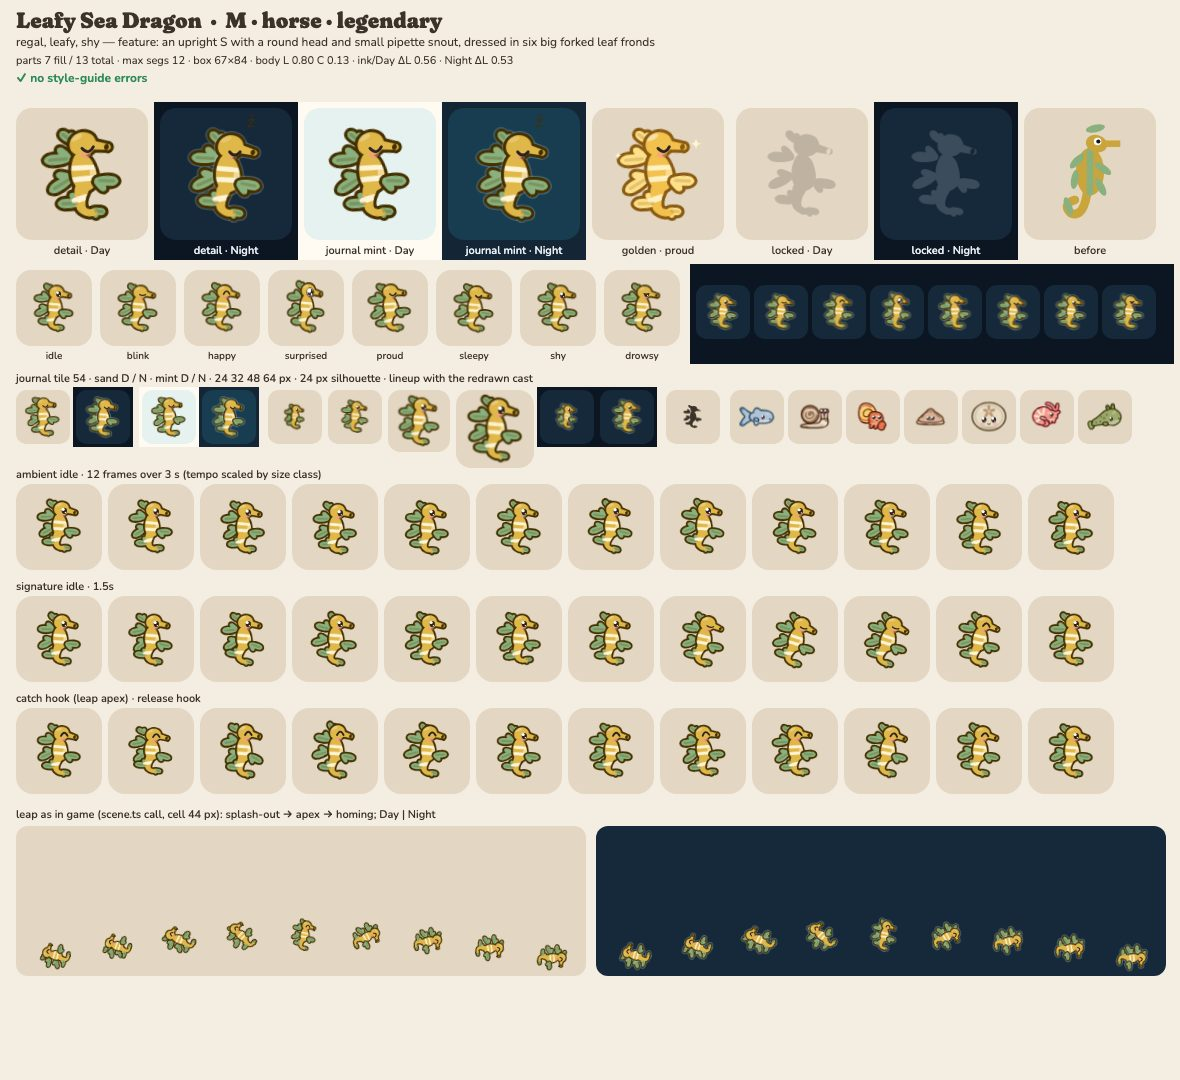
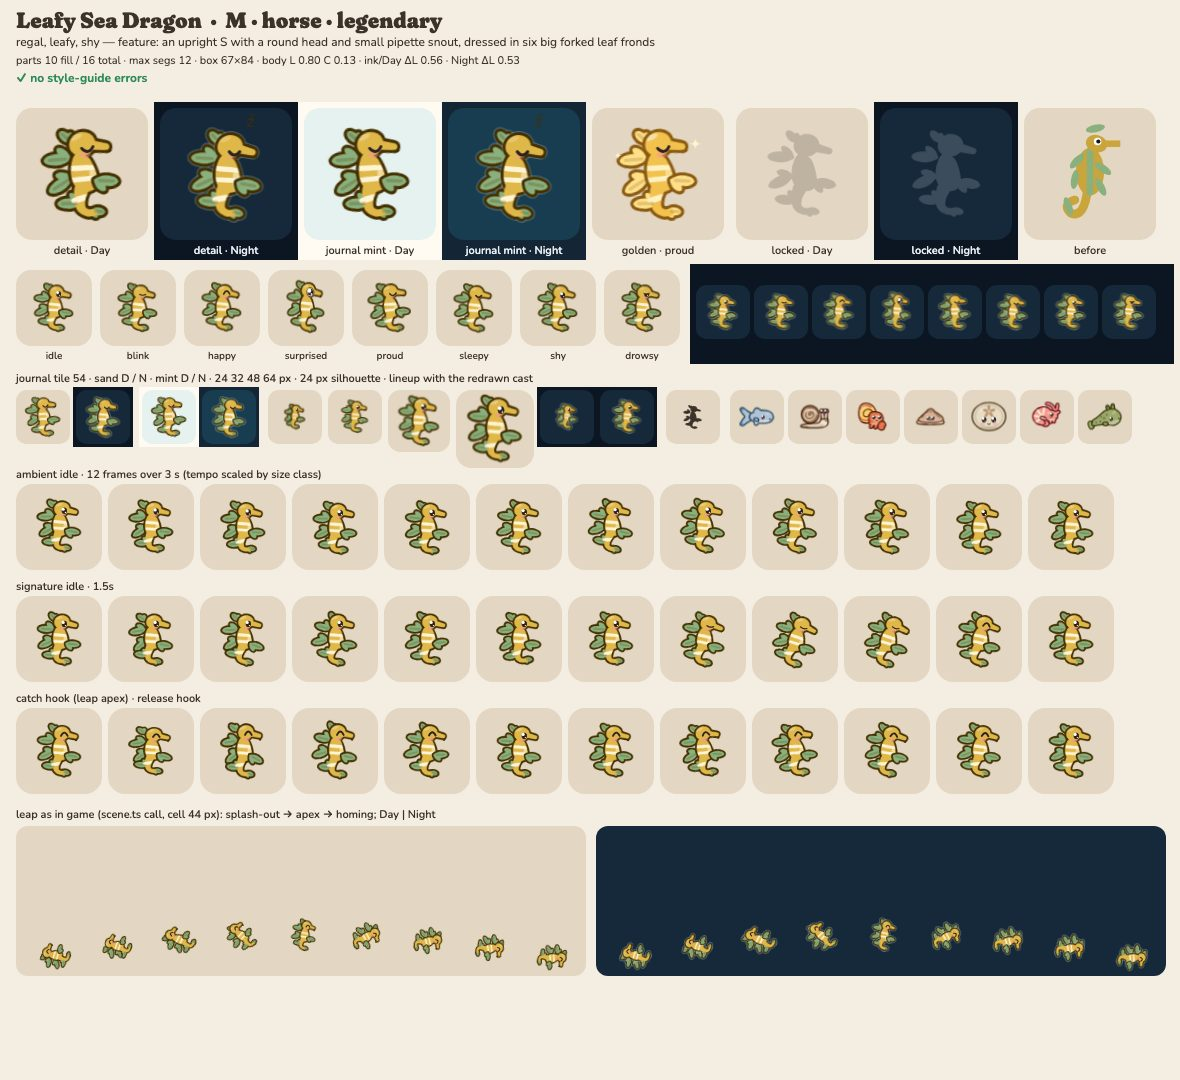
render: seadragon — teardrop fronds that rasterise the same on WebKit (ADR 0011)
The forked blades had two close root points that made the curve loop back on itself; WebKit's Path2D filled that differently from the rasteriser (mask parity 8.5-9.4 %, limit 8 %), and so did the snout's capsule+ellipse join. Blades are now one-root teardrops in separate sister/main parts, the snout one capsule. Parity passes on Chromium and WebKit; level (<= 10 deg); lint clean.

diff --git a/src/render/art/species/seadragon.ts b/src/render/art/species/seadragon.ts
@@ -10,13 +10,13 @@ import { blob, capsule, defineArt, ellipse, join, tube } from '../kit.ts';
 
 const head = ellipse(3, -27, 12.5, 11, -12);
 // a short, slim pipette snout with a rounded tip
-const snout = join(capsule(11, -25, 4.4, 24, -21.5, 3), ellipse(25.5, -21, 3.2, 3));
+const snout = capsule(11, -25, 4.4, 25, -21.5, 3.2);
 const torso = blob([
   [-5, -18],
   [6, -15],
   [11, -5],
-  [12, 7],
-  [7, 15],
+  [13, 8],
+  [8.5, 16],
   [-2, 17],
   [-10, 9],
   [-11, -5],
@@ -29,26 +29,36 @@ const tail = tube([
   [6, 37.5, 2.8],
 ]);
 
-/** A leaf blade rooted at (bx, by), pointing at `deg`: narrow stalk, wide rounded blade. */
+/**
+ * A leaf blade rooted at (bx, by), pointing at `deg`: a teardrop with one root point (two close root
+ * points made the curve loop back on itself, which WebKit and the rasteriser fill differently).
+ */
 function blade(bx: number, by: number, deg: number, len: number, w: number): string {
   const a = (deg * Math.PI) / 180;
   const c = Math.cos(a),
     s = Math.sin(a);
   const P = (u: number, v: number): [number, number] => [bx + u * c - v * s, by + u * s + v * c];
   return blob([
-    P(0, -2),
-    P(len * 0.4, -w * 0.48),
-    P(len * 0.82, -w * 0.44),
+    P(-1, 0),
+    P(len * 0.36, -w * 0.5),
+    P(len * 0.8, -w * 0.42),
     P(len, 0),
-    P(len * 0.82, w * 0.44),
-    P(len * 0.4, w * 0.48),
-    P(0, 2),
+    P(len * 0.8, w * 0.42),
+    P(len * 0.36, w * 0.5),
   ]);
 }
 type Frond = readonly [number, number, number, number, number];
-/** A forked frond: a big blade and a smaller sister blade from the same root (the leafy look). */
-const frond = ([x, y, d, len, w]: Frond) =>
-  join(blade(x, y, d - 12, len, w), blade(x, y, d + 30, len * 0.62, w * 0.72));
+/**
+ * A forked frond: a big blade and a smaller sister blade from the same root (the leafy look). The
+ * two blades go in separate parts: overlapping subpaths in one Path2D rasterise differently on WebKit.
+ */
+const main = ([x, y, d, len, w]: Frond) => blade(x, y, d - 12, len, w);
+const sister = ([x, y, d, len, w]: Frond) => blade(x, y, d + 30, len * 0.62, w * 0.72);
+const fronds = (L: readonly Frond[]) => [
+  { d: join(...L.map(sister)), role: 'belly' as const },
+  { d: join(...L.map(main)), role: 'belly' as const },
+];
+
 const rib = ([x, y, d, len]: Frond) => {
   const a = ((d - 12) * Math.PI) / 180;
   return `M${x + 4 * Math.cos(a)} ${y + 4 * Math.sin(a)}L${x + len * 0.78 * Math.cos(a)} ${y + len * 0.78 * Math.sin(a)}`;
@@ -87,17 +97,14 @@ export default defineArt({
     {
       id: 'leavesB',
       pivot: [-8, -10],
-      parts: [
-        { d: join(...BACK.map(frond)), role: 'belly' },
-        { d: join(...BACK.map(rib)), role: 'ink', kind: 'line', w: 3, alpha: 0.22 },
-      ],
+      parts: [...fronds(BACK), { d: join(...BACK.map(rib)), role: 'ink', kind: 'line', w: 3, alpha: 0.22 }],
     },
     {
       id: 'tail',
       pivot: [-3, 14],
       seamless: true,
       parts: [
-        { d: join(...TAIL.map(frond)), role: 'belly' },
+        ...fronds(TAIL),
         { d: tail, role: 'body' },
         {
           d: tube([
@@ -124,10 +131,7 @@ export default defineArt({
     {
       id: 'leavesF',
       pivot: [9, 8],
-      parts: [
-        { d: join(...FRONT.map(frond)), role: 'belly' },
-        { d: join(...FRONT.map(rib)), role: 'ink', kind: 'line', w: 3, alpha: 0.22 },
-      ],
+      parts: [...fronds(FRONT), { d: join(...FRONT.map(rib)), role: 'ink', kind: 'line', w: 3, alpha: 0.22 }],
     },
   ],
   shine: ellipse(-2, -34, 6, 2.6, -18),
